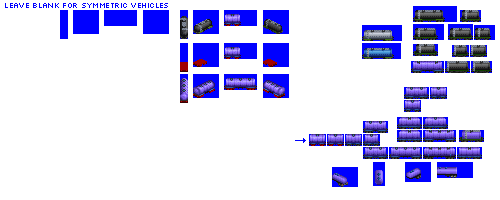
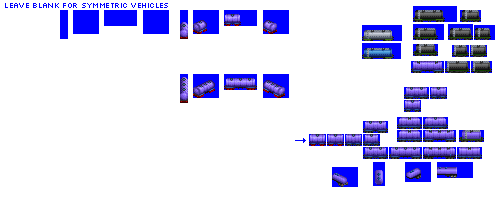
Change: sprites complete for gen 4A tank car

Changed region(s): [[0.36, 0.06, 0.6, 0.36], [0.51, 0.09, 0.57, 0.18], [0.36, 0.39, 0.39, 0.51]]

diff --git a/src/vehicles/tank_cars.py b/src/vehicles/tank_cars.py
@@ -62,7 +62,8 @@ def main():
     consist = TankCarConsist(roster='pony',
                              base_numeric_id=640,
                              gen=4,
-                             subtype='A')
+                             subtype='A',
+                             sprites_complete=True)
 
     consist.add_unit(type=FreightCar,
                      vehicle_length=4,
